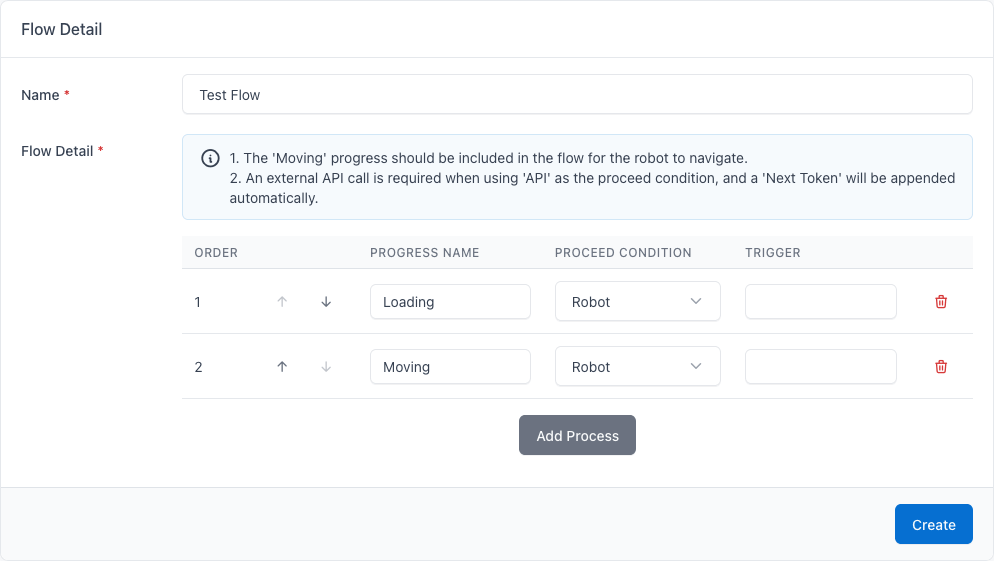
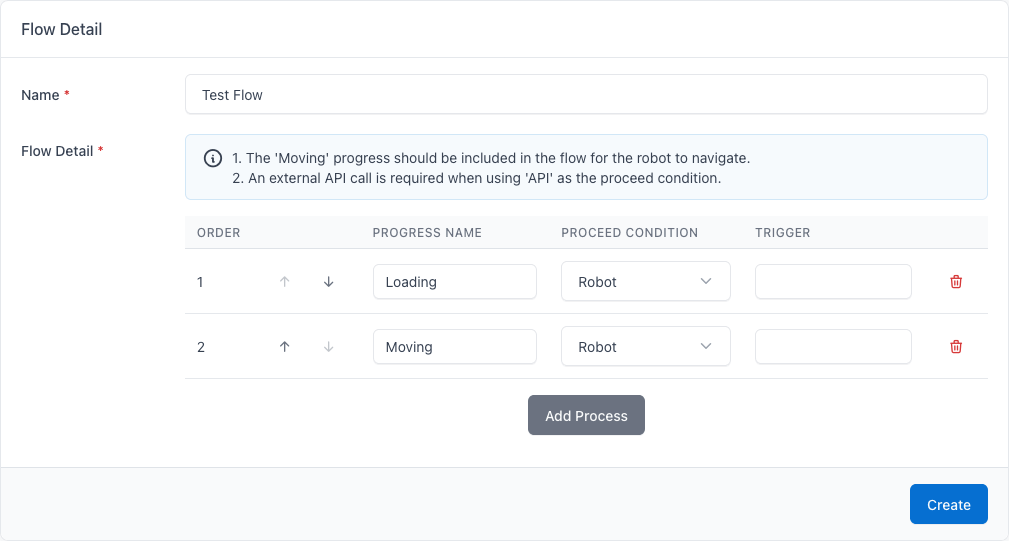
update Progress in API

diff --git a/content/cloud/developer/progress-in-api.md b/content/cloud/developer/progress-in-api.md
@@ -5,6 +5,9 @@ weight: 3
 
 This tutorial describes how to use the Next Token with a robot. This applies to both physical and simulated robots.
 
+This tutorial requires creating a LGDXRobot Cloud API Key but does not require authentication.
+{.alert .alert-info}
+
 ## Prerequisites
 
 1. Create a RESTful API for receiving the Next Token by using the following Python script.
@@ -43,6 +46,7 @@ Key | Value
 --- | ---
 TaskId | Task ID
 RobotId | Robot ID
+NextToken | Next Token
 {.table}
 
 ![Screenshot of creating a trigger](../img/progress-in-api/trigger.png)
@@ -56,12 +60,15 @@ RobotId | Robot ID
 ## Completing the Progress
 
 1. Create a new task using the flow just created. The waypoints can be any waypoints in the realm.
+
+![Screenshot of creating a new task](../img/progress-in-api/task.png)
+
 2. The robot will not move because the current progress is **Loading**.
 3. Note the Task ID, Robot ID, and Next Token from the terminal running the Python script.
 
 ![Screenshot of the python script](../img/progress-in-api/next-pyserver.png)
 
-4. In Postman, create a new request `https://localhost:5163/Automation/AutoTasksNext/<Task ID>` and set the method to `POST`.
+4. In Postman, create a new request `https://localhost:5163/Automation/AutoTasksApi/AutoTaskNext` and set the method to `POST`.
 5. In the **Headers** tab, add a new key `X-API-Key` and set the value to the API Key.
 
 ![Screenshot of the request headers](../img/progress-in-api/next-header.png)
@@ -70,6 +77,7 @@ RobotId | Robot ID
 
 ```json
 {
+  "taskId": <Task ID>,
   "robotId": "<Robot ID>",
   "nextToken": "<Next Token>"
 }
@@ -79,3 +87,31 @@ RobotId | Robot ID
 
 7. Click **Send**.
 8. The robot will move to the next waypoint.
+
+## Aborting the Task
+
+1. Create a new task using the flow just created. The waypoints can be any waypoints in the realm.
+2. The robot will not move because the current progress is **Loading**.
+3. Note the Task ID, Robot ID, and Next Token from the terminal running the Python script.
+
+![Screenshot of the python script](../img/progress-in-api/abort-pyserver.png)
+
+4. In Postman, create a new request `https://localhost:5163/Automation/AutoTasksApi/AutoTaskAbort` and set the method to `POST`.
+5. In the **Headers** tab, add a new key `X-API-Key` and set the value to the API Key.
+
+![Screenshot of the request headers](../img/progress-in-api/abort-header.png)
+
+6. In the **Body** tab, add a JSON object with the following properties:
+
+```json
+{
+  "taskId": <Task ID>,
+  "robotId": "<Robot ID>",
+  "nextToken": "<Next Token>"
+}
+```
+
+![Screenshot of the request body](../img/progress-in-api/abort-body.png)
+
+7. Click **Send**.
+8. The task will be aborted, and an email notification will be sent.
